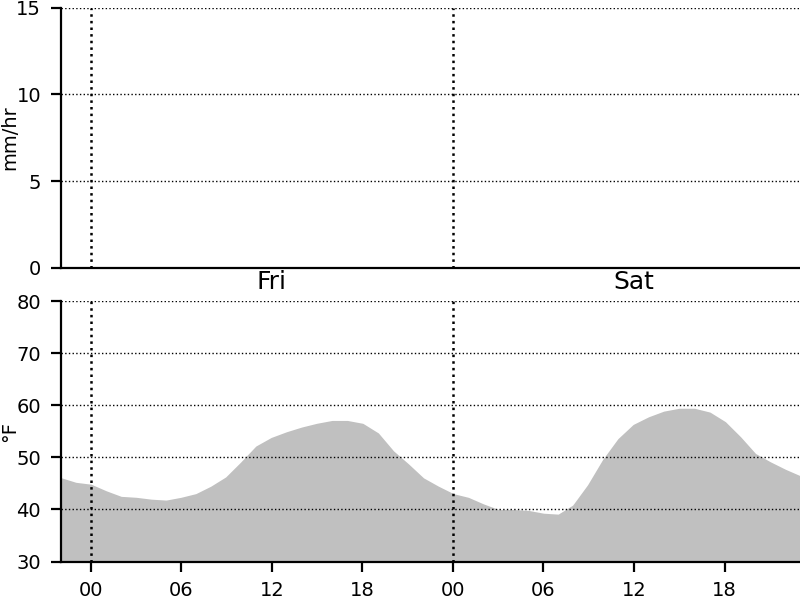
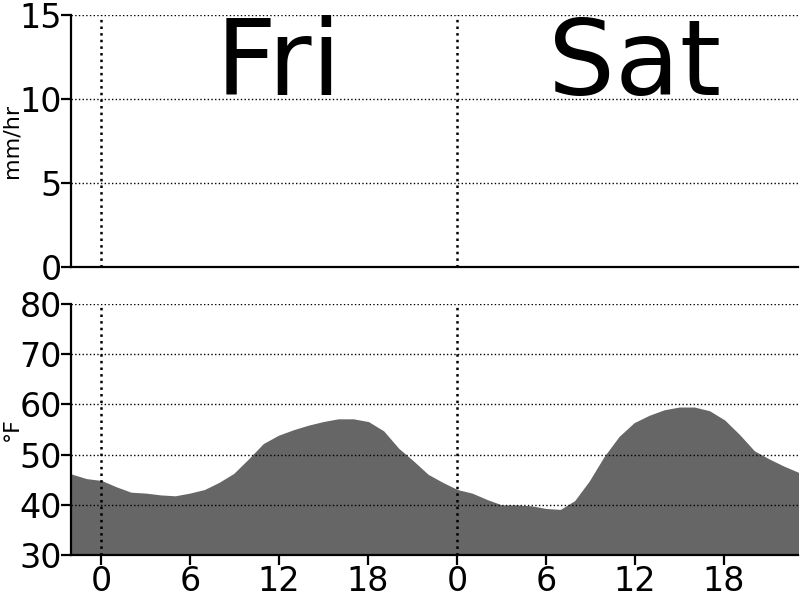
more readable

Changed region(s): [[0.0, 0.0, 1.0, 1.0]]

diff --git a/main.py b/main.py
@@ -2,6 +2,7 @@ import io
 import argparse
 import datetime as dt
 import json
+import sys
 from dataclasses import dataclass
 from pathlib import Path
 from matplotlib.figure import Figure
@@ -112,8 +113,7 @@ def plot(
 ) -> Path:
     dpi = 200
     fig = Figure(figsize=(width / dpi, height / dpi), dpi=dpi, layout="compressed")
-    engine = fig.get_layout_engine()
-    engine.set(w_pad=0, h_pad=0, wspace=0, hspace=0)
+    fig.get_layout_engine().set(w_pad=0.01, h_pad=0.01, wspace=0, hspace=0)
     NUM_ROW = 2
     NUM_COL = 1
 
@@ -149,7 +149,7 @@ def plot(
                 )
             midnight += dt.timedelta(hours=24)
 
-        if idx == 1:  # on top
+        if idx == 1:
             # Weekdays at noons
             noon = (
                 weather.time[0]
@@ -160,10 +160,11 @@ def plot(
                 if noon >= weather.time[0]:
                     ax.text(
                         x=noon,  # ty: ignore[invalid-argument-type]
-                        y=lo - (hi - lo) * 0.08,
+                        y=hi,
                         s=noon.strftime("%a"),
+                        verticalalignment="top",
                         horizontalalignment="center",
-                        fontsize=9,
+                        fontsize=38,
                     )
                 noon += dt.timedelta(hours=24)
 
@@ -175,7 +176,7 @@ def plot(
             linewidth=0.5,
             color="black",
         )
-        ax.tick_params(axis="both", which="major", labelsize=7)
+        ax.tick_params(axis="both", which="major", labelsize=12, pad=0)
 
         if idx != NUM_ROW:
             # remove x axis for all but the bottom plot
@@ -184,7 +185,10 @@ def plot(
             )
         else:
             ax.xaxis.set_major_locator(HourLocator(byhour=[0, 6, 12, 18], tz=tz))
-            ax.xaxis.set_major_formatter(DateFormatter("%H", tz=tz))
+            if sys.platform.startswith("win"):
+                ax.xaxis.set_major_formatter(DateFormatter("%#H", tz=tz))
+            else:
+                ax.xaxis.set_major_formatter(DateFormatter("%-H", tz=tz))
 
             # TODO: find a spot for this. Was taking up too much space as an xlabel
             # generated = weather.generation_time.astimezone(tz=tz).strftime("%a %H:%M")
@@ -192,13 +196,13 @@ def plot(
 
         return ax
 
-    rain_ax = sub_plot(1, "gray", weather.rain, rain_min, rain_max)
-    temp_ax = sub_plot(2, "silver", weather.temp, temp_min, temp_max)
+    rain_ax = sub_plot(1, "#666666", weather.rain, rain_min, rain_max)
+    temp_ax = sub_plot(2, "#666666", weather.temp, temp_min, temp_max)
 
-    rain_ax.set_ylabel("mm/hr", fontsize=7, labelpad=-1)
+    rain_ax.set_ylabel("mm/hr", fontsize=8, labelpad=-1)
     rain_ax.yaxis.set_major_locator(MultipleLocator(5))
 
-    temp_ax.set_ylabel("°F", fontsize=7, labelpad=-1)
+    temp_ax.set_ylabel("°F", fontsize=8, labelpad=-1)
     temp_ax.yaxis.set_major_locator(MultipleLocator(10))
 
     out = Path("plot.png")
